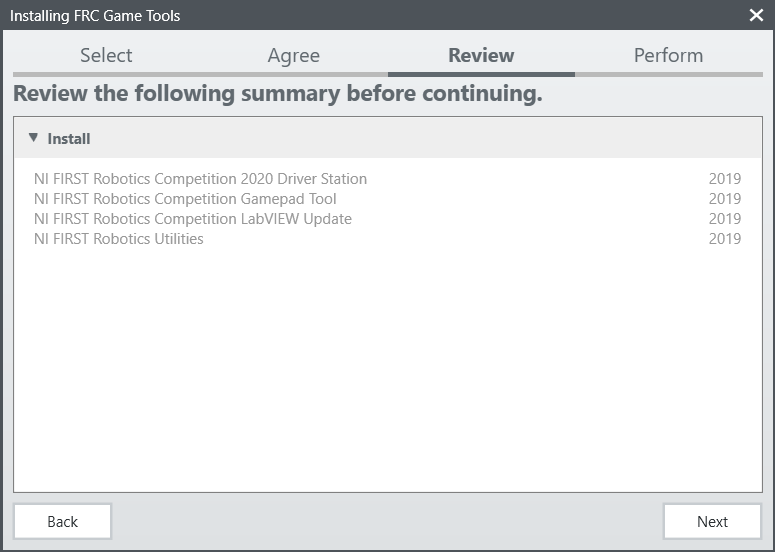
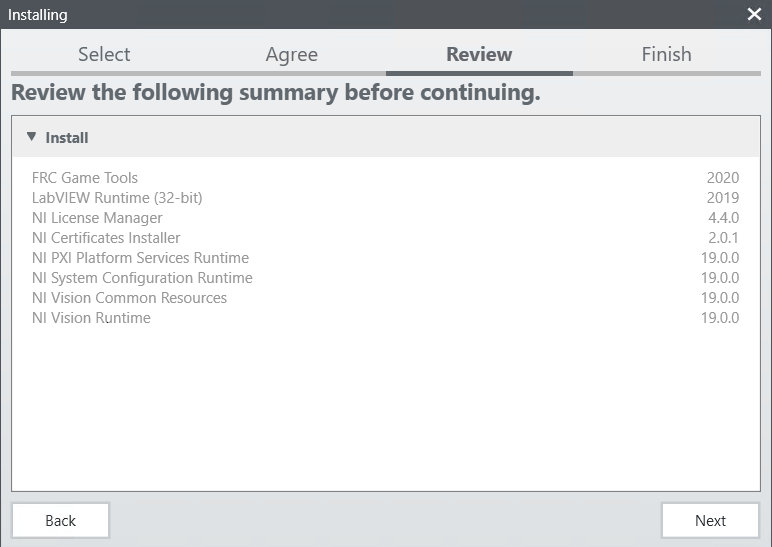
Update LabVIEW and FRC Game Tools installation
Fixes #403

diff --git a/source/docs/getting-started/getting-started-frc-control-system/frc-game-tools.rst b/source/docs/getting-started/getting-started-frc-control-system/frc-game-tools.rst
@@ -43,19 +43,34 @@ If you wish to install on other machines offline, do not click the Download butt
 The Update installer may prompt that .NET Framework 4.6.2 needs to be
 updated or installed. Follow prompts on-screen to complete the
 installation, including rebooting if requested. Then resume the
-installation of the NI FRC Update, restarting the installer if
+installation of the FRC Game Tools, restarting the installer if
 necessary.
 
 Welcome
 -------
 
-Right click on the downloaded zip file and select Extract All.
-If you downloaded the encrypted zip file, you will be prompted for the
-encryption key which will be released at Kickoff. Open the extracted
-folder and any subfolders until you reach the folder containing “install”
-(may say “install.exe” on some machines). Double click on the setup icon
-to launch the installer. Click “Yes” if a Windows Security prompt
-appears.
+Starting Install (online)
+^^^^^^^^^^^^^^^^^^^^^^^^^
+
+Run the downloaded exe file to start the install process. Click “Yes” if a Windows Security prompt
+
+Starting Install (offline)
+^^^^^^^^^^^^^^^^^^^^^^^^^^
+
+Windows 10:
+Right click on the downloaded iso file and select mount. Run install.exe from the mounted iso. Click “Yes” if a Windows Security prompt
+
+.. image:: images/labview/mount-iso.png
+
+
+Windows 7 & 8/8.1:
+
+Install 7-Zip (download `here <https://www.7-zip.org>`__). As of the writing of this document, the current released version is 19.00 (2019-02-21).
+Right click on the downloaded iso file and select Extract to.
+
+.. image:: images/labview/extract-iso.png
+
+Run install.exe from the extracted folder. Click “Yes” if a Windows Security prompt Click “Yes” if a Windows Security prompt appears.
 
 NI Package Manager License
 --------------------------
@@ -88,13 +103,6 @@ Installation progress of the NI Package Manager will be tracked in this window
 
 Product List
 ------------
-
-|Product List|
-
-Click “Next”. There is no need to de-select “LabVIEW
-Update” for C++ or Java teams, if you do not have the base LabVIEW
-installation (because you are not programming in LabVIEW) this
-installation will be skipped automatically.
 
 Additional Software
 -------------------

diff --git a/source/docs/getting-started/getting-started-frc-control-system/labview-setup.rst b/source/docs/getting-started/getting-started-frc-control-system/labview-setup.rst
@@ -30,7 +30,7 @@ Getting LabVIEW installer
 
 Either locate and insert the LabVIEW USB Drive or download the LabVIEW 2020 installer from https://www.ni.com/en-us/support/downloads/drivers/download.labview-software-for-frc.html
 
-..image:: images/labview/offline-installer.png
+.. image:: images/labview/offline-installer.png
 
 If you wish to install on other machines offline, do not click the Download button, click **Individual Offline Installers** and then click Download, to download the full installer.
 
@@ -46,9 +46,28 @@ Teams are permitted to install the software on as many team computers as needed,
 Welcome
 ^^^^^^^
 
-.. image:: images/labview/labview_welcome.png
+Starting Install (online)
+^^^^^^^^^^^^^^^^^^^^^^^^^
 
-Double click on ``autorun.exe`` to launch the installer. If prompted to allow changes click Yes. To install LabVIEW to program your FRC\ |reg| robot, click the top option Install Everything for LabVIEW Development. If prompted with any Windows security warnings, click Allow or Yes.
+Run the downloaded exe file to start the install process. Click “Yes” if a Windows Security prompt
+
+Starting Install (offline)
+^^^^^^^^^^^^^^^^^^^^^^^^^^
+
+Windows 10:
+Right click on the downloaded iso file and select mount. Run install.exe from the mounted iso. Click “Yes” if a Windows Security prompt
+
+.. image:: images/labview/mount-iso.png
+
+
+Windows 7 & 8/8.1:
+
+Install 7-Zip (download `here <https://www.7-zip.org>`__). As of the writing of this document, the current released version is 19.00 (2019-02-21).
+Right click on the downloaded iso file and select Extract to.
+
+.. image:: images/labview/extract-iso.png
+
+Run install.exe from the extracted folder. Click “Yes” if a Windows Security prompt Click “Yes” if a Windows Security prompt appears.
 
 NI Package Manager License
 ^^^^^^^^^^^^^^^^^^^^^^^^^^
